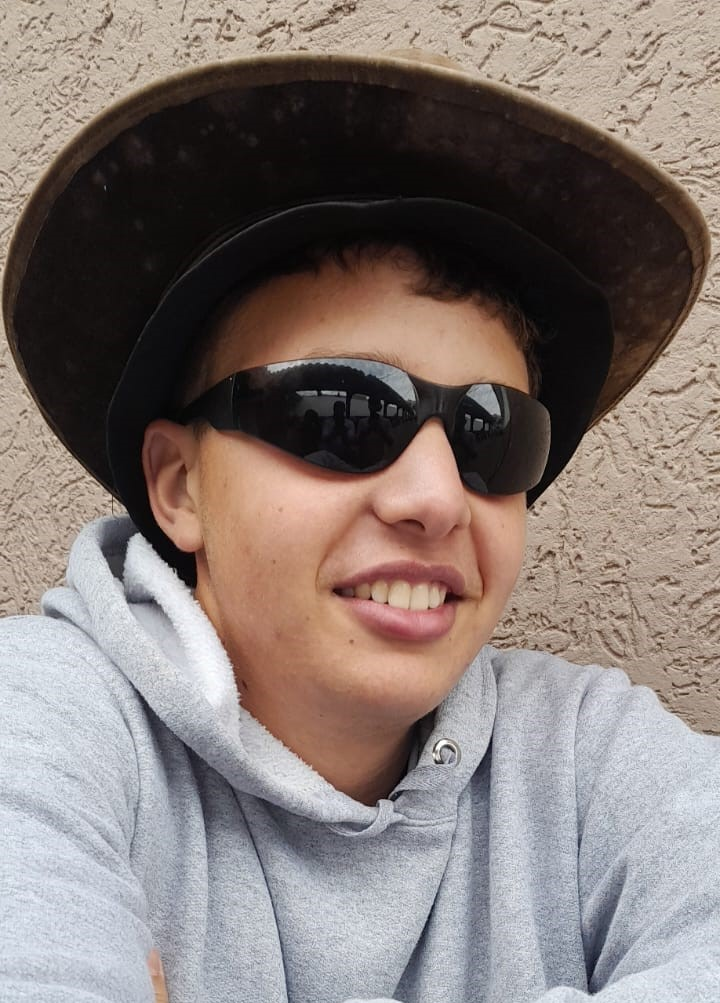
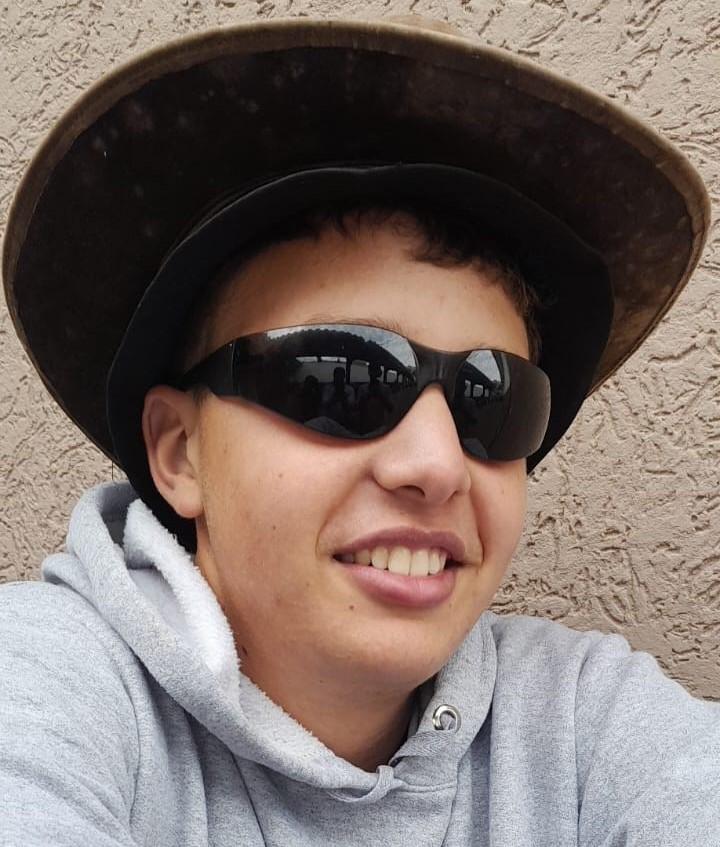
Add files via upload

diff --git a/index.html b/index.html
@@ -114,7 +114,7 @@
             <!-- Kaique-->
             <div class="col-md-6">
                 <div id="equipe" class="d-flex align-items-center">
-                    <img id="img_avatar" class="img-fluid shadow me-4" src="../static/img/" alt="kaique img"
+                    <img id="img_avatar" class="img-fluid shadow me-4" src="static/img/kaique_img.jpg" alt="kaique img"
                         data-anime="left">
                     <div class="texto_equipe" data-anime="up">
                         <h3>Kaique Iglesias</h3>
@@ -143,9 +143,7 @@
                             <li class="list-group-item">
                                 Número: <span class="fw-lighter">31</span>
                             </li>
-                            <li class="list-group-item">
-                                Função: <span class="fw-lighter">batata</span>
-                            </li>
+                          
                         </ul>
                     </div>
                 </div>
@@ -156,7 +154,7 @@
             <!-- Maria-->
             <div class="col-md-6">
                 <div id="equipe" class="d-flex align-items-center">
-                    <img id="img_avatar" class="img-fluid shadow me-4" src="../static/img/" alt="Maria img"
+                    <img id="img_avatar" class="img-fluid shadow me-4" src="static/img/duda_img.jpg" alt="Maria img"
                         data-anime="left">
                     <div class="texto_equipe" data-anime="up">
                         <h3>Maria Eduarda Dos Santos</h3>
@@ -164,9 +162,7 @@
                             <li class="list-group-item">
                                 Número: <span class="fw-lighter">34</span>
                             </li>
-                            <li class="list-group-item">
-                                Função: <span class="fw-lighter">batata</span>
-                            </li>
+                         
                         </ul>
                     </div>
                 </div>
@@ -185,9 +181,7 @@
                             <li class="list-group-item">
                                 Número: <span class="fw-lighter">36</span>
                             </li>
-                            <li class="list-group-item">
-                                Função: <span class="fw-lighter">batata</span>
-                            </li>
+                           
                         </ul>
                     </div>
                 </div>

diff --git a/static/style.css b/static/style.css
@@ -361,7 +361,6 @@ i.menu-mobile {
   height: 50%; 
 border-radius: 5%;
 }
-
 .img_arquiteto{ 
   height: 30%;
   width: 20%;
